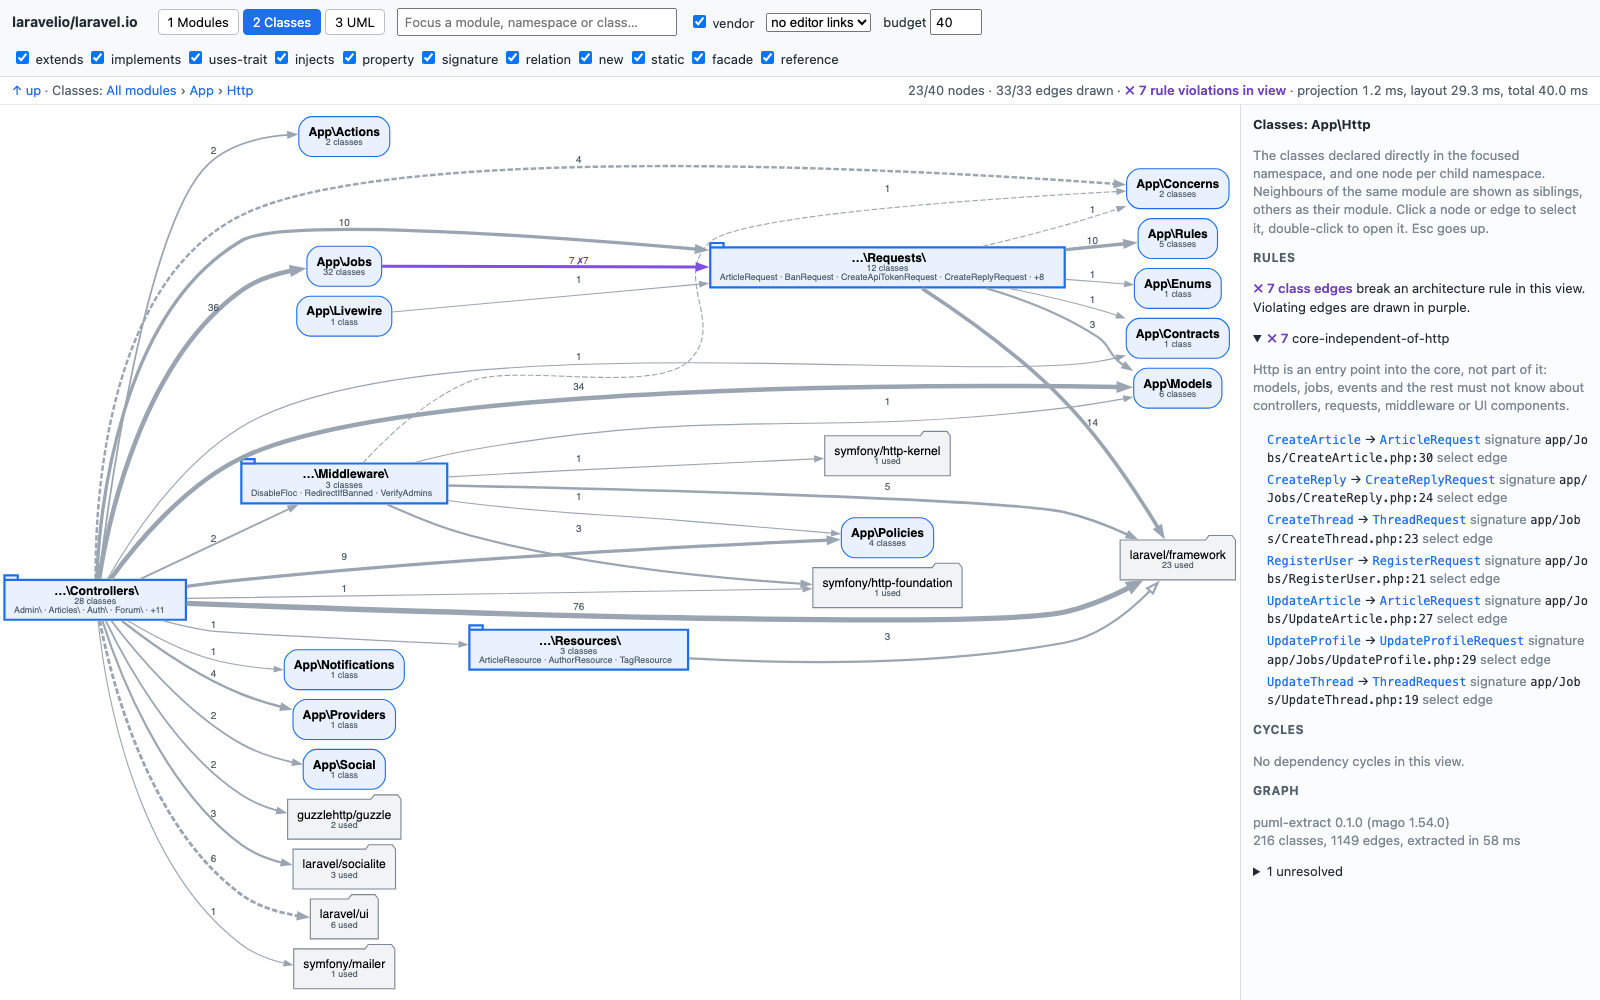
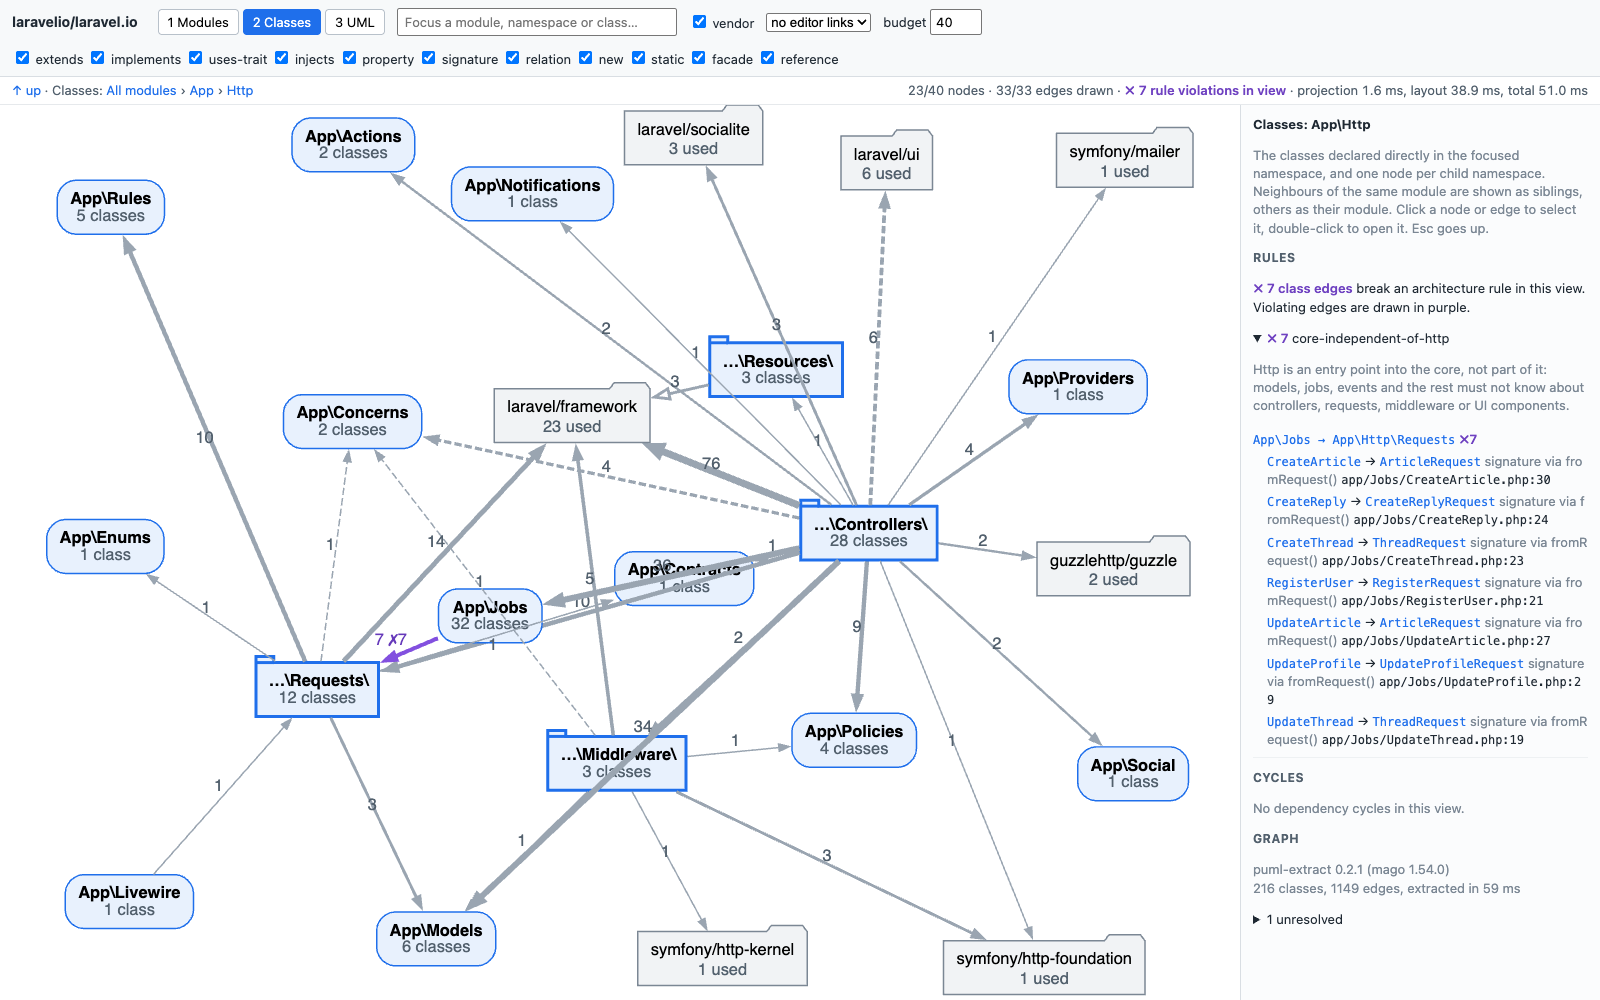
Fall back to neato below scale 1, retake the README screenshots, release 0.2.1
Since 0.2.0 no view zooms out below scale 1, but the layout still kept a
dot drawing down to 0.8 before trying neato. A dot layout between 0.8
and 1 was then cropped even when neato fit, as App\Http did at
1600x1000. The fallback now uses the same floor.

The README screenshots are retaken from this build. The tour says that
the modules view leaves vendor packages out unless "vendor" is ticked,
describes the layer bands and the ranked side panel, and explains
"part off-screen, show all".

verify/drive.mjs disables the browser cache, so a regenerated HTML file
is never measured from a stale copy.

diff --git a/viewer/app.js b/viewer/app.js
@@ -6,7 +6,6 @@ const TOOLTIP_PAIRS = 12;
 const LINE_LIMIT = 72;
 const EVIDENCE_LIMIT = 400;
 const BUSIEST_LIMIT = 5;
-const LEGIBLE_SCALE = 0.8;
 const MINIMUM_SCALE = 1;
 const MODULE_EDGE_BUDGET = 30;
 const LAYER_ORDER = ['http', 'console', 'providers', 'core', 'database', 'tests'];
@@ -208,14 +207,14 @@ function layout(projection, edges) {
     const preferred = projection.edge ? 'LR' : projection.level === 3 ? 'BT' : 'TB';
     const layered = viz.renderSVGElement(toDot(projection, edges, preferred));
 
-    if (fitScale(layered) >= 1) {
+    if (fitScale(layered) >= MINIMUM_SCALE) {
         return layered;
     }
 
     const sideways = viz.renderSVGElement(toDot(projection, edges, preferred === 'LR' ? 'TB' : 'LR'));
     const best = fitScale(sideways) > fitScale(layered) ? sideways : layered;
 
-    if (fitScale(best) >= LEGIBLE_SCALE || banded(projection)) {
+    if (fitScale(best) >= MINIMUM_SCALE || banded(projection)) {
         return best;
     }
 

diff --git a/README.md b/README.md
@@ -23,7 +23,7 @@ Download the binary for your platform from the
 [latest release](https://github.com/kauffinger/puml/releases/latest):
 
 ```sh
-VERSION=v0.2.0
+VERSION=v0.2.1
 TARGET=aarch64-apple-darwin   # x86_64-apple-darwin, x86_64-unknown-linux-musl, aarch64-unknown-linux-musl
 
 curl -fsSL "https://github.com/kauffinger/puml/releases/download/$VERSION/puml-extract-$VERSION-$TARGET.tar.gz" | tar -xz
@@ -65,14 +65,20 @@ puml draws it.
 ### Modules
 
 The first view, shown above, has one box per module: a namespace directly under a PSR-4 root, such as
-`App\Models` or `App\Http`. Folder-shaped boxes are vendor packages, such as `laravel/framework`. An
-arrow from `App\Http` to `App\Models` means classes in `App\Http` use classes in `App\Models`; the
-number on it is how many class-to-class dependencies it stands for.
+`App\Models` or `App\Http`. Each module sits in the band of its layer: `http`, `core`,
+`console`, `providers` or `database`. An arrow from `App\Http` to `App\Models` means classes
+in `App\Http` use classes in `App\Models`; the number on it is how many class-to-class dependencies it
+stands for. Tick **vendor** to add the packages, such as `laravel/framework`, as folder-shaped boxes.
 
 - **Red** boxes and arrows are dependency cycles: modules that, through some path, all depend on each
   other.
 - **Purple** arrows break an architecture rule. Here, seven jobs in `App\Jobs` accept form requests from
   `App\Http`.
+
+The side panel is the verdict in reading order. It lists each violation with its `file:line`, then the
+layers and the directions they forbid, then each cycle with the cheapest cut. After those come the
+busiest classes and the modules ranked by how much depends on them, ending with the ones nothing
+depends on.
 
 ### Classes
 
@@ -111,9 +117,12 @@ picture was about:
 | search field | jumps straight to a module, namespace or class |
 
 The checkboxes in the toolbar hide kinds of dependencies, for example everything except `extends` and
-`implements` to see only the type hierarchy. `vendor` hides the packages. `budget` sets how many boxes a
-view may have before the least important ones are folded into one "N more" box, which you can click to
-list.
+`implements` to see only the type hierarchy. `vendor` shows the packages; the modules view leaves them
+out unless it is ticked. `budget` sets how many boxes a view may have before the least important ones
+are folded into one "N more" box, which you can click to list.
+
+Text is never drawn smaller than 11 px. When a view does not fit the window, the stats line says "part
+off-screen": drag to pan, scroll to zoom, or click **show all**.
 
 Every `file:line` in the side panel can open in VS Code, Cursor or PhpStorm; choose the editor in the
 toolbar. The address bar always holds the current view, so a bookmark or a shared link opens the same
@@ -132,7 +141,7 @@ puml-extract show path/to/app 'App\Jobs' 'App\Http'   # one arrow, with every fi
 An excerpt of `report` on laravel.io:
 
 ```
-puml report: laravelio/laravel.io (216 classes, 1149 edges, puml-extract 0.2.0 (mago 1.54.0))
+puml report: laravelio/laravel.io (216 classes, 1149 edges, puml-extract 0.2.1 (mago 1.54.0))
 verdict: 7 rule violations, 2 module cycles, 9 fan-out outliers
 
 RULES  (one line per class edge that breaks a rule)

diff --git a/verify/reviewer-measurements.md b/verify/reviewer-measurements.md
@@ -98,7 +98,9 @@ job. Every other question takes one `report`, though in a terminal 800 px high t
    five busiest classes by fan-out, a table of modules sorted by Ca with Ce, and the leaves (Ca 0). This
    took Q8, Q9, Q10 and Q12 from 26–28 clicks to 2–3 page-downs.
 3. Every view has a zoom floor of scale 1. Labels never shrink below 11 px, and a cropped view says so and
-   offers "show all". This fixed every checklist view below 11 px.
+   offers "show all". This fixed every checklist view below 11 px. A dot layout that would need a scale
+   below 1 gives way to `neato` when `neato` fits better; before, dot was kept down to 0.8, which the floor
+   then cropped (`App\Http` at 1600×1000).
 4. `visibleEdges` ranks the edges that break a rule first. In the banded level 1, the heaviest edges
    come before cycle edges. The judge had found `Http → Models` (38) and `Jobs → Models` (118) hidden
    behind light cycle edges.
